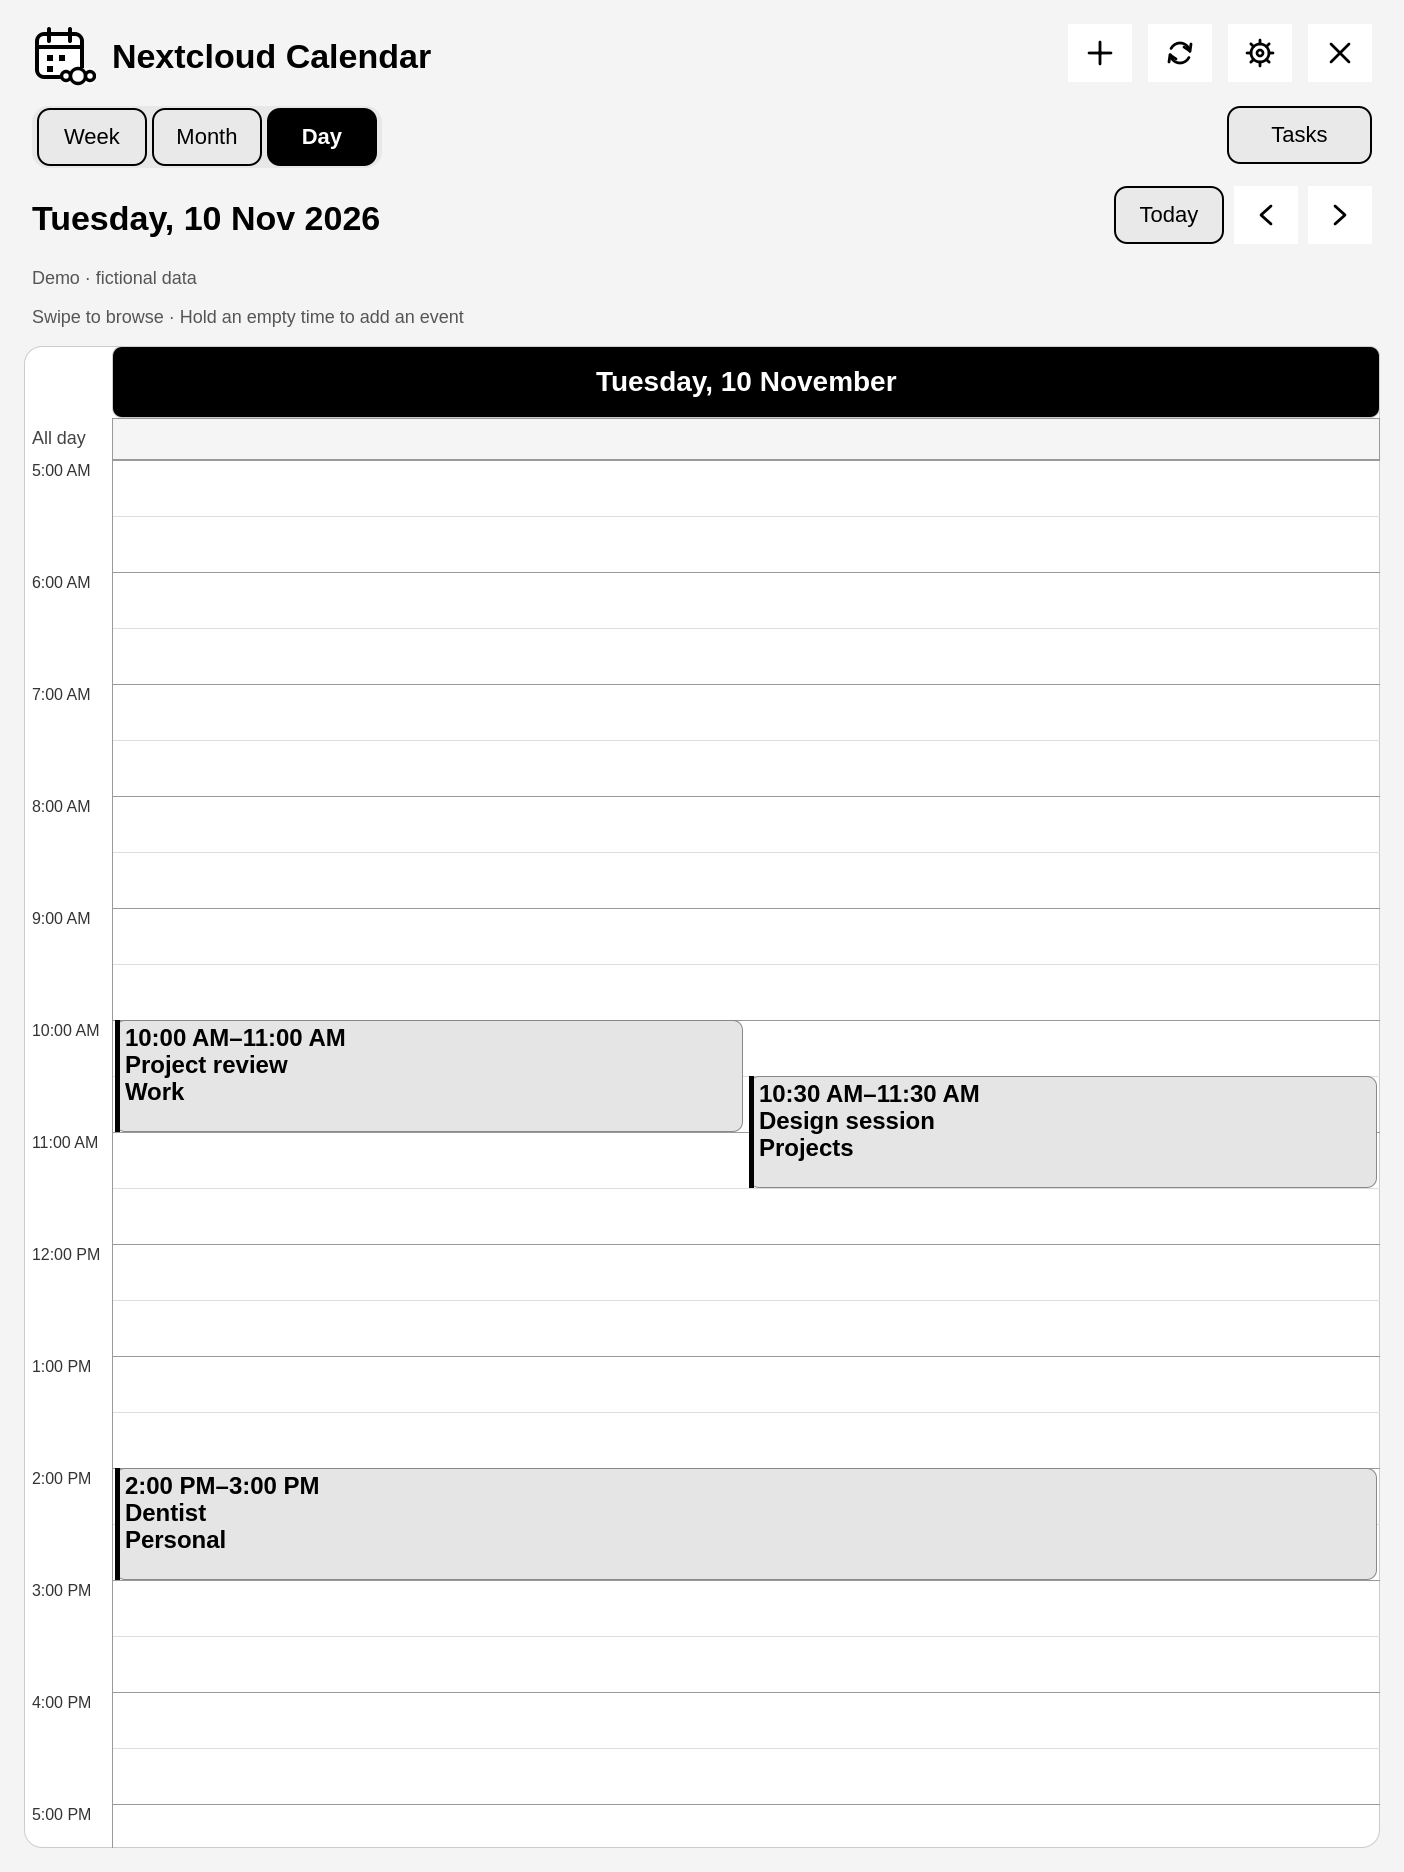
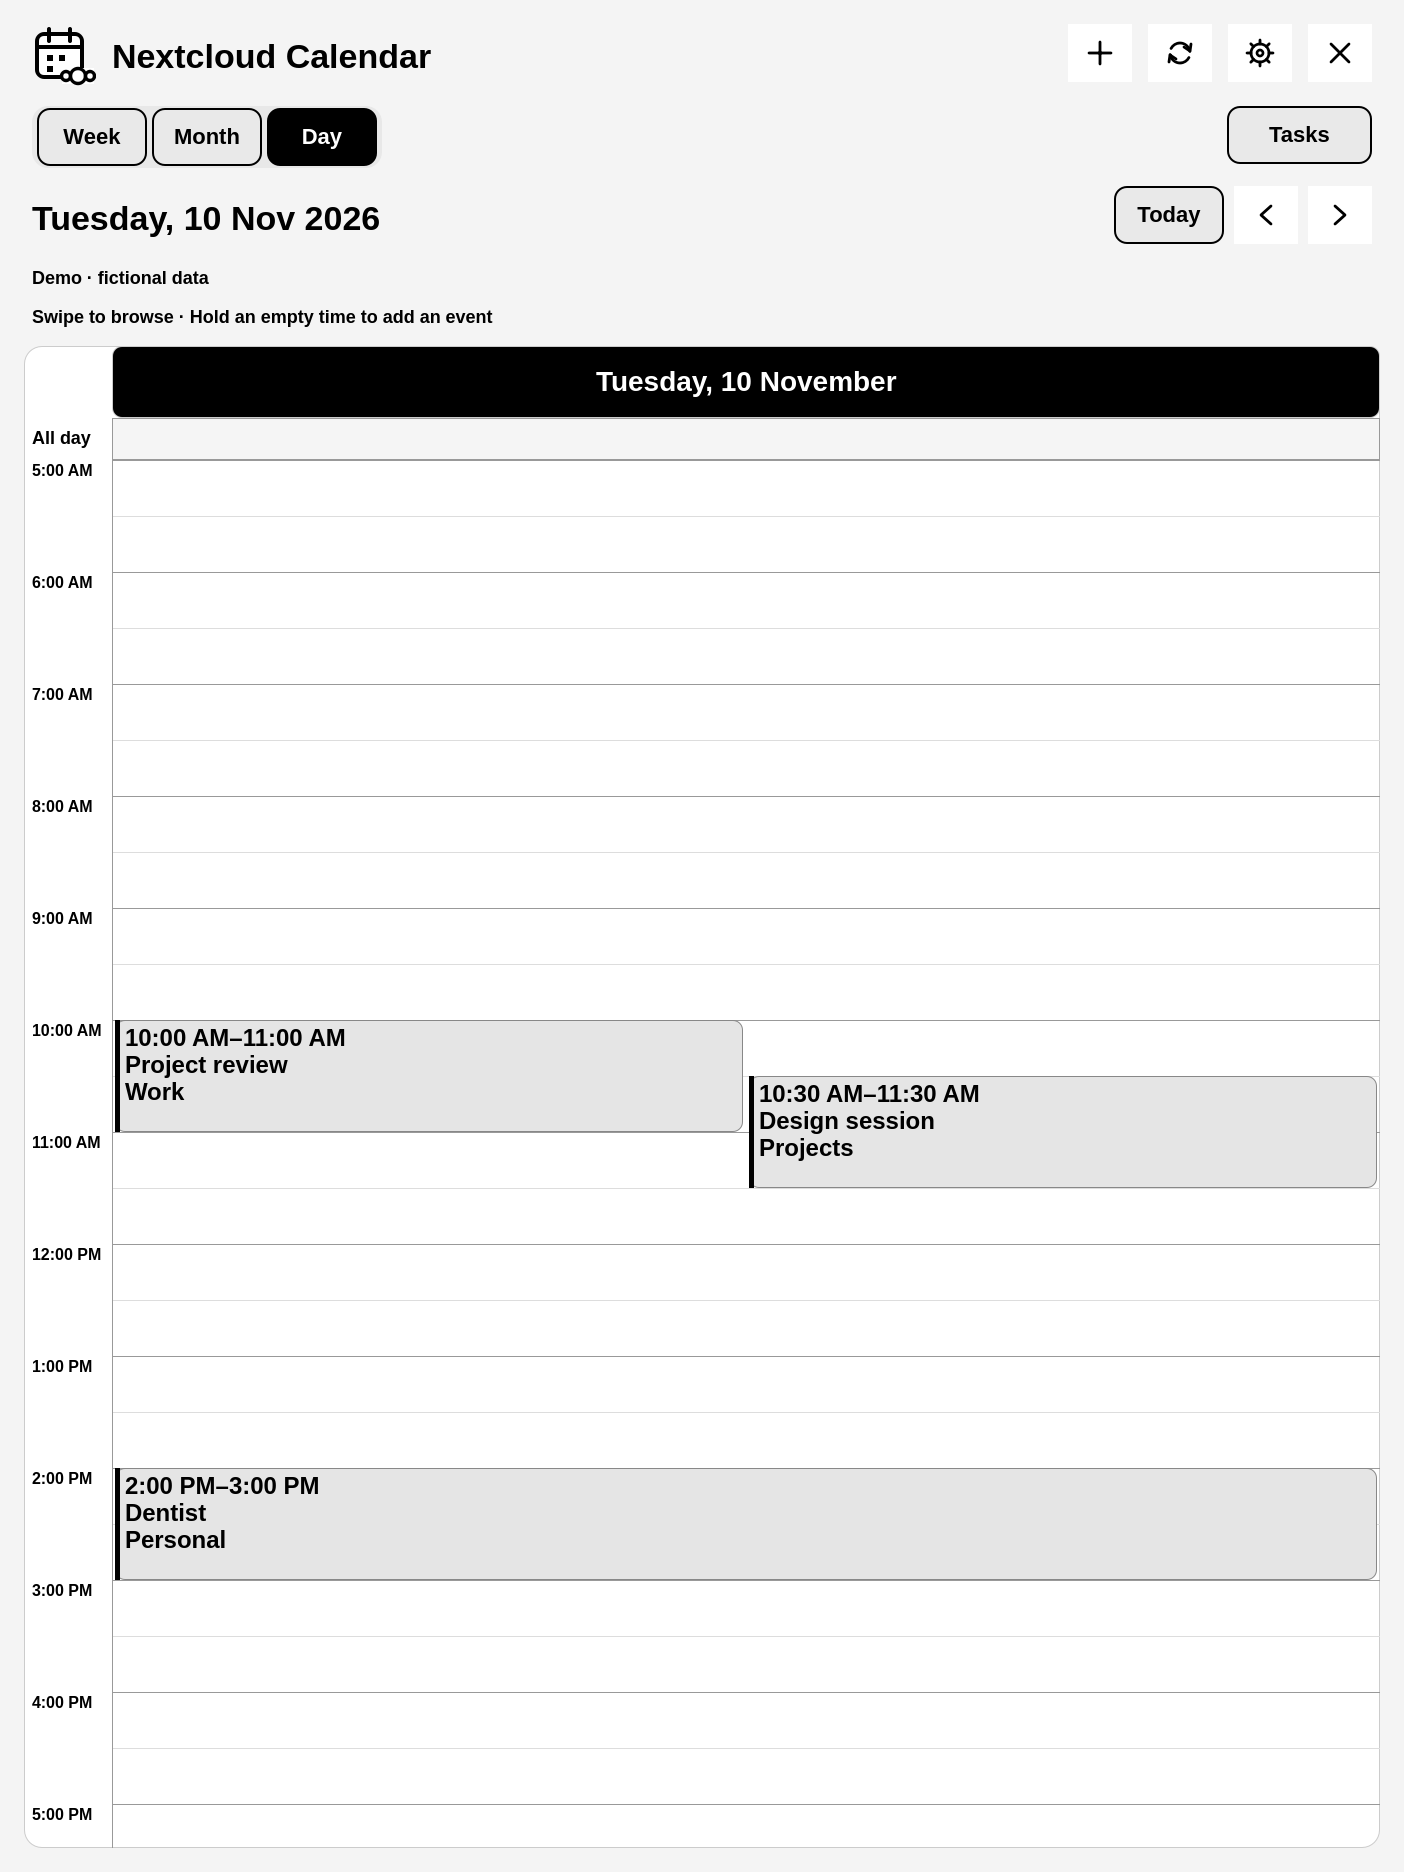
Increase text contrast throughout the tablet app

diff --git a/qml/SettingsView.qml b/qml/SettingsView.qml
@@ -21,13 +21,13 @@ Rectangle {
             Field {width:parent.width;label:"Username";value:app.connectionDraft.username;editable:!app.status.busy&&!app.connectionSaving;onActivated:app.field="connection.username"}
             Field {objectName:"passwordField";width:parent.width;label:"App password";value:app.connectionDraft.app_password?"••••••••":(app.connectionDraft.has_password?"Saved · leave blank to keep it":"Tap to enter app password");editable:!app.status.busy&&!app.connectionSaving;onActivated:app.field="connection.app_password"}
             Action {width:230;label:app.connectionSaving?"Saving…":"Save & sync";enabled:!app.status.busy&&!app.connectionSaving;onTriggered:app.saveConnection()}
-            Text {width:parent.width;text:app.message||app.status.message;font.pixelSize:21;wrapMode:Text.Wrap;color:"#444444"}
+            Text {width:parent.width;text:app.message||app.status.message;font.weight:Font.DemiBold;font.pixelSize:21;wrapMode:Text.Wrap;color:"black"}
             Text {text:"Time format";font.pixelSize:28;font.bold:true;color:"black"}
             Row {spacing:12
                 Action {width:170;label:"12-hour";selected:app.timeFormat==="12h";onTriggered:app.savePreference("time_format","12h")}
                 Action {width:170;label:"24-hour";selected:app.timeFormat==="24h";onTriggered:app.savePreference("time_format","24h")}
             }
-            Text {width:parent.width;text:app.status.last_sync?"Last sync: "+app.status.last_sync:"Not synced yet";font.pixelSize:20;color:"#555555"}
+            Text {width:parent.width;text:app.status.last_sync?"Last sync: "+app.status.last_sync:"Not synced yet";font.weight:Font.DemiBold;font.pixelSize:20;color:"black"}
             Text {text:"Visible calendars & task lists";font.pixelSize:28;font.bold:true;color:"black"}
             Repeater {model:app.status.collections;delegate:Action {
                 required property var modelData
@@ -39,7 +39,7 @@ Rectangle {
                 required property var modelData
                 property bool discardConfirm:false
                 width:form.width;spacing:10
-                Text {width:parent.width;text:(modelData.title||"Item")+" · "+(modelData.delete?"Deletion":"Edit")+"\n"+(modelData.error||"Waiting to sync");font.pixelSize:22;wrapMode:Text.Wrap;color:"black"}
+                Text {width:parent.width;text:(modelData.title||"Item")+" · "+(modelData.delete?"Deletion":"Edit")+"\n"+(modelData.error||"Waiting to sync");font.weight:Font.DemiBold;font.pixelSize:22;wrapMode:Text.Wrap;color:"black"}
                 Row {spacing:12
                     Action {label:"Retry";enabled:!app.status.busy&&modelData.error.indexOf("conflict:")!==0;onTriggered:app.request("POST","/pending",{id:modelData.id,action:"retry"},function(){app.sync()})}
                     Action {width:260;label:parent.parent.discardConfirm?"Confirm discard":"Discard local change";enabled:!app.status.busy;onTriggered:{if(parent.parent.discardConfirm)app.request("POST","/pending",{id:modelData.id,action:"discard"},function(){app.refresh()});else parent.parent.discardConfirm=true}}

diff --git a/qml/Main.qml b/qml/Main.qml
@@ -235,8 +235,8 @@ Rectangle {
                 ToolbarButton {icon:"next";onTriggered:root.navigate(1)}
             }
         }
-        Text {width:parent.width;text:root.message||(root.loading?"Loading…":root.status.message);font.pixelSize:18;color:"#555555";wrapMode:Text.Wrap}
-        Text {visible:root.view!=="tasks";text:root.view==="month"?"Swipe to change month · Tap a date to open":"Swipe to browse · Hold an empty time to add an event";font.pixelSize:18;color:"#555555"}
+        Text {width:parent.width;text:root.message||(root.loading?"Loading…":root.status.message);font.weight:Font.DemiBold;font.pixelSize:18;color:"black";wrapMode:Text.Wrap}
+        Text {visible:root.view!=="tasks";text:root.view==="month"?"Swipe to change month · Tap a date to open":"Swipe to browse · Hold an empty time to add an event";font.weight:Font.DemiBold;font.pixelSize:18;color:"black"}
     }
     Rectangle {
         id:content;anchors.top:header.bottom;anchors.topMargin:18;anchors.bottom:parent.bottom;anchors.bottomMargin:24;anchors.left:parent.left;anchors.right:parent.right;anchors.leftMargin:24;anchors.rightMargin:24
@@ -251,9 +251,9 @@ Rectangle {
                 color:day.getMonth()===root.selected.getMonth()?"white":"#eeeeee"
                 Text {x:12;y:12;text:monthCell.day.getDate();font.pixelSize:28;font.bold:root.iso(monthCell.day)===root.iso(new Date());color:"black"}
                 Column {x:8;y:52;width:parent.width-16;spacing:8
-                    Repeater {model:root.eventsOn(monthCell.day).slice(0,Math.max(0,Math.floor((monthCell.height-84)/42)));delegate:Text {required property var modelData;width:parent.width;text:modelData.title;font.pixelSize:18;maximumLineCount:2;wrapMode:Text.Wrap;elide:Text.ElideRight;color:"black"}}
+                    Repeater {model:root.eventsOn(monthCell.day).slice(0,Math.max(0,Math.floor((monthCell.height-84)/42)));delegate:Text {required property var modelData;width:parent.width;text:modelData.title;font.weight:Font.DemiBold;font.pixelSize:18;maximumLineCount:2;wrapMode:Text.Wrap;elide:Text.ElideRight;color:"black"}}
                 }
-                Text {anchors.bottom:parent.bottom;anchors.right:parent.right;anchors.margins:8;text:root.eventsOn(monthCell.day).length?root.eventsOn(monthCell.day).length+" events":"";font.pixelSize:14;color:"#555555"}
+                Text {anchors.bottom:parent.bottom;anchors.right:parent.right;anchors.margins:8;text:root.eventsOn(monthCell.day).length?root.eventsOn(monthCell.day).length+" events":"";font.weight:Font.DemiBold;font.pixelSize:14;color:"black"}
             }}
         }
         CalendarGesture {

diff --git a/qml/TimelineView.qml b/qml/TimelineView.qml
@@ -77,7 +77,7 @@ Item {
             }
         }
     }
-    Text {x:8;y:headings.height+10;text:"All day";font.pixelSize:18;color:"#444444"}
+    Text {x:8;y:headings.height+10;text:"All day";font.weight:Font.DemiBold;font.pixelSize:18;color:"black"}
     Row {
         id: allDayRow
         x: timeline.gutter; y: headings.height
@@ -99,7 +99,7 @@ Item {
                             required property var modelData
                             x: 3; width: allDayColumn.width - 6; height: 46
                             radius:10;color: "#dddddd"; border.color: "#bbbbbb"
-                            Text {anchors.fill:parent;anchors.margins:5;text:modelData.title;font.pixelSize:20;color:"black";elide:Text.ElideRight;verticalAlignment:Text.AlignVCenter}
+                            Text {anchors.fill:parent;anchors.margins:5;text:modelData.title;font.weight:Font.DemiBold;font.pixelSize:20;color:"black";elide:Text.ElideRight;verticalAlignment:Text.AlignVCenter}
                         }
                     }
                 }
@@ -132,7 +132,7 @@ Item {
                 required property int index
                 width: hours.width; height: index === timeline.endHour-timeline.startHour ? 28 : timeline.hourHeight
                 y: index * timeline.hourHeight
-                Text {x:8;y:2;width:timeline.gutter-12;text:Geometry.clock((timeline.startHour+index)*60,app.timeFormat);font.pixelSize:app.timeFormat==="12h"?16:19;color:"#333333"}
+                Text {x:8;y:2;width:timeline.gutter-12;text:Geometry.clock((timeline.startHour+index)*60,app.timeFormat);font.weight:Font.DemiBold;font.pixelSize:app.timeFormat==="12h"?16:19;color:"black"}
                 Rectangle {x:timeline.gutter;width:parent.width-x;height:1;color:"#999999"}
                 Rectangle {visible:index<timeline.endHour-timeline.startHour;x:timeline.gutter;y:timeline.hourHeight/2;width:parent.width-x;height:1;color:"#dddddd"}
             }

diff --git a/qml/Action.qml b/qml/Action.qml
@@ -14,11 +14,10 @@ Rectangle {
     signal triggered
     width: 110; height: 58
     radius: 13
-    color: selected ? "black" : "#e9e9e9"
-    border.color: "black"; border.width: 2
-    opacity: enabled ? 1 : 0.4
+    color: !enabled ? "#f7f7f7" : (selected ? "black" : "#e9e9e9")
+    border.color: enabled ? "black" : "#aaaaaa"; border.width: 2
     CheckMark {visible:button.checkable;x:14;anchors.verticalCenter:parent.verticalCenter;checked:button.checked}
-    Text { x:button.checkable?56:9; anchors.verticalCenter:parent.verticalCenter; width:parent.width-x-(button.dropdown?44:9); horizontalAlignment:button.checkable?Text.AlignLeft:Text.AlignHCenter; elide:Text.ElideRight; text:button.label;color:button.selected?"white":"black";font.pixelSize:button.fontSize;font.bold:button.selected }
-    Canvas {visible:button.dropdown;anchors.right:parent.right;anchors.rightMargin:14;anchors.verticalCenter:parent.verticalCenter;width:18;height:12;onPaint:{var c=getContext("2d");c.reset();c.strokeStyle=button.selected?"white":"black";c.lineWidth=2;c.beginPath();c.moveTo(1,2);c.lineTo(9,10);c.lineTo(17,2);c.stroke()}}
+    Text { x:button.checkable?56:9; anchors.verticalCenter:parent.verticalCenter; width:parent.width-x-(button.dropdown?44:9); horizontalAlignment:button.checkable?Text.AlignLeft:Text.AlignHCenter; elide:Text.ElideRight; text:button.label;color:button.enabled&&button.selected?"white":"black";font.pixelSize:button.fontSize;font.weight:button.selected?Font.Bold:Font.DemiBold }
+    Canvas {visible:button.dropdown;anchors.right:parent.right;anchors.rightMargin:14;anchors.verticalCenter:parent.verticalCenter;width:18;height:12;onPaint:{var c=getContext("2d");c.reset();c.strokeStyle=button.enabled&&button.selected?"white":"black";c.lineWidth=2;c.beginPath();c.moveTo(1,2);c.lineTo(9,10);c.lineTo(17,2);c.stroke()}}
     MouseArea { id:tap; anchors.fill: parent; onClicked: button.triggered() }
 }

diff --git a/qml/TouchKeyboard.qml b/qml/TouchKeyboard.qml
@@ -19,13 +19,13 @@ Rectangle {
     Column {
         id:rows;x:12;y:18;width:parent.width-24;spacing:9
         Item {width:parent.width;height:69
-            Text {anchors.verticalCenter:parent.verticalCenter;width:parent.width-340;text:keyboard.label;font.pixelSize:19;color:"black";elide:Text.ElideRight}
+            Text {anchors.verticalCenter:parent.verticalCenter;width:parent.width-340;text:keyboard.label;font.weight:Font.DemiBold;font.pixelSize:19;color:"black";elide:Text.ElideRight}
             Row {anchors.right:parent.right;spacing:8
                 Action {objectName:"hideKeyboardButton";width:110;height:66;label:"Hide";onTriggered:keyboard.done()}
             }
         }
         Rectangle {width:parent.width;height:93;radius:8;color:"white";border.color:"black";border.width:2
-            TextInput {id:input;objectName:"keyboardInput";x:12;y:15;width:parent.width-24;height:63;font.pixelSize:28;clip:true;selectByMouse:true;activeFocusOnPress:false;text:keyboard.value;echoMode:keyboard.secret?TextInput.Password:TextInput.Normal;onTextEdited:keyboard.edited(text);onActiveFocusChanged:if(activeFocus&&Qt.inputMethod)Qt.inputMethod.hide()}
+            TextInput {id:input;objectName:"keyboardInput";x:12;y:15;width:parent.width-24;height:63;color:"black";font.weight:Font.DemiBold;font.pixelSize:28;clip:true;selectByMouse:true;activeFocusOnPress:false;text:keyboard.value;echoMode:keyboard.secret?TextInput.Password:TextInput.Normal;onTextEdited:keyboard.edited(text);onActiveFocusChanged:if(activeFocus&&Qt.inputMethod)Qt.inputMethod.hide()}
         }
         Repeater {
             model:keyboard.symbols?(keyboard.extraSymbols?["[]{}#%^*+=","_\\|~<>€£¥",".,?!'\":"]:["1234567890","@#$%&-+()","*\"':;!?"]):["qwertyuiop","asdfghjkl","zxcvbnm"]

diff --git a/qml/TasksView.qml b/qml/TasksView.qml
@@ -34,11 +34,11 @@ Item {
                     MouseArea {anchors.fill:parent;enabled:modelData.writable&&!app.status.busy;onClicked:app.toggleTask(modelData)}
                 }
                 Text {id:title;x:88;y:18;width:parent.width-250;text:modelData.title;font.pixelSize:28;font.bold:true;font.strikeout:!!modelData.completed;wrapMode:Text.Wrap;color:"black"}
-                Text {id:metadata;x:88;anchors.top:title.bottom;anchors.topMargin:6;width:parent.width-120;text:app.taskSubtitle(modelData);font.pixelSize:20;wrapMode:Text.Wrap;color:"#444444"}
+                Text {id:metadata;x:88;anchors.top:title.bottom;anchors.topMargin:6;width:parent.width-120;text:app.taskSubtitle(modelData);font.weight:Font.DemiBold;font.pixelSize:20;wrapMode:Text.Wrap;color:"black"}
                 Rectangle {visible:modelData.priority>0;anchors.right:parent.right;anchors.rightMargin:20;y:20;width:110;height:38;radius:10;color:"#dddddd";Text{anchors.centerIn:parent;text:app.priorityLabel(modelData.priority);font.pixelSize:20;font.bold:true;color:"black"}}
                 MouseArea {x:78;width:parent.width-78;height:parent.height;onClicked:app.openItem(modelData)}
             }
         }
-        Text {visible:parent.count===0;anchors.centerIn:parent;text:"No tasks in this view";font.pixelSize:27;color:"#555555"}
+        Text {visible:parent.count===0;anchors.centerIn:parent;text:"No tasks in this view";font.weight:Font.DemiBold;font.pixelSize:27;color:"black"}
     }
 }

diff --git a/qml/EditorView.qml b/qml/EditorView.qml
@@ -17,8 +17,8 @@ Rectangle {
             Action {label:"Save";selected:true;enabled:page.draft&&page.draft.writable&&!app.status.busy&&!app.saving;onTriggered:app.save(false)}
             Action {label:app.confirmingDelete?"Confirm":"Delete";enabled:page.draft&&page.draft.id!==""&&page.draft.writable&&!app.status.busy&&!app.saving;onTriggered:{if(app.confirmingDelete)app.save(true);else app.confirmingDelete=true}}
         }
-        Text {width:parent.width;text:app.message||(page.draft&&!page.draft.writable?"Read-only · edit recurring items and invitations in Nextcloud":"Saved on the tablet until you tap Sync.");font.pixelSize:20;wrapMode:Text.Wrap;color:"#444444"}
-        Text {text:"Swipe left from the right edge to go back";font.pixelSize:18;color:"#555555"}
+        Text {width:parent.width;text:app.message||(page.draft&&!page.draft.writable?"Read-only · edit recurring items and invitations in Nextcloud":"Saved on the tablet until you tap Sync.");font.weight:Font.DemiBold;font.pixelSize:20;wrapMode:Text.Wrap;color:"black"}
+        Text {text:"Swipe left from the right edge to go back";font.weight:Font.DemiBold;font.pixelSize:18;color:"black"}
     }
     Flickable {
         anchors.top:heading.bottom;anchors.topMargin:20;anchors.left:parent.left;anchors.right:parent.right;anchors.bottom:parent.bottom;anchors.bottomMargin:app.keyboardHeight;clip:true;contentHeight:form.height+48

diff --git a/qml/Field.qml b/qml/Field.qml
@@ -10,11 +10,11 @@ Column {
     property bool dropdown: false
     signal activated
     spacing: 5
-    Text { text: field.label; font.pixelSize: 19; font.bold: true; color: "#555555" }
+    Text { text: field.label; font.pixelSize: 19; font.bold: true; color:"black" }
     Rectangle {
         width: field.width; height: Math.max(58, content.implicitHeight + 20)
         radius:13;color: "white"; border.color: "black";border.width:2
-        Text { id: content; x: 14; y: 10; width: parent.width - (field.dropdown?64:28); text: field.value || "—"; font.pixelSize: 26; color: "black"; wrapMode: Text.Wrap }
+        Text { id: content; x: 14; y: 10; width: parent.width - (field.dropdown?64:28); text: field.value || "—"; font.weight:Font.DemiBold;font.pixelSize: 26; color: "black"; wrapMode: Text.Wrap }
         Canvas {visible:field.dropdown;anchors.right:parent.right;anchors.rightMargin:18;anchors.verticalCenter:parent.verticalCenter;width:18;height:12;onPaint:{var c=getContext("2d");c.reset();c.strokeStyle="black";c.lineWidth=2;c.beginPath();c.moveTo(1,2);c.lineTo(9,10);c.lineTo(17,2);c.stroke()}}
         MouseArea { anchors.fill: parent; enabled: field.editable; onClicked: field.activated() }
     }

diff --git a/qml/ChoicePicker.qml b/qml/ChoicePicker.qml
@@ -47,7 +47,7 @@ Item {
                 required property var modelData
                 width:ListView.view.width;height:64;radius:10
                 color:modelData.value===picker.selectedValue?"#e5e5e5":"white"
-                Text {x:16;anchors.verticalCenter:parent.verticalCenter;width:parent.width-32;text:modelData.label;font.pixelSize:26;font.bold:modelData.value===picker.selectedValue;color:"black";elide:Text.ElideRight}
+                Text {x:16;anchors.verticalCenter:parent.verticalCenter;width:parent.width-32;text:modelData.label;font.pixelSize:26;font.weight:modelData.value===picker.selectedValue?Font.Bold:Font.DemiBold;color:"black";elide:Text.ElideRight}
                 MouseArea {anchors.fill:parent;onClicked:picker.choose(index)}
             }
         }
